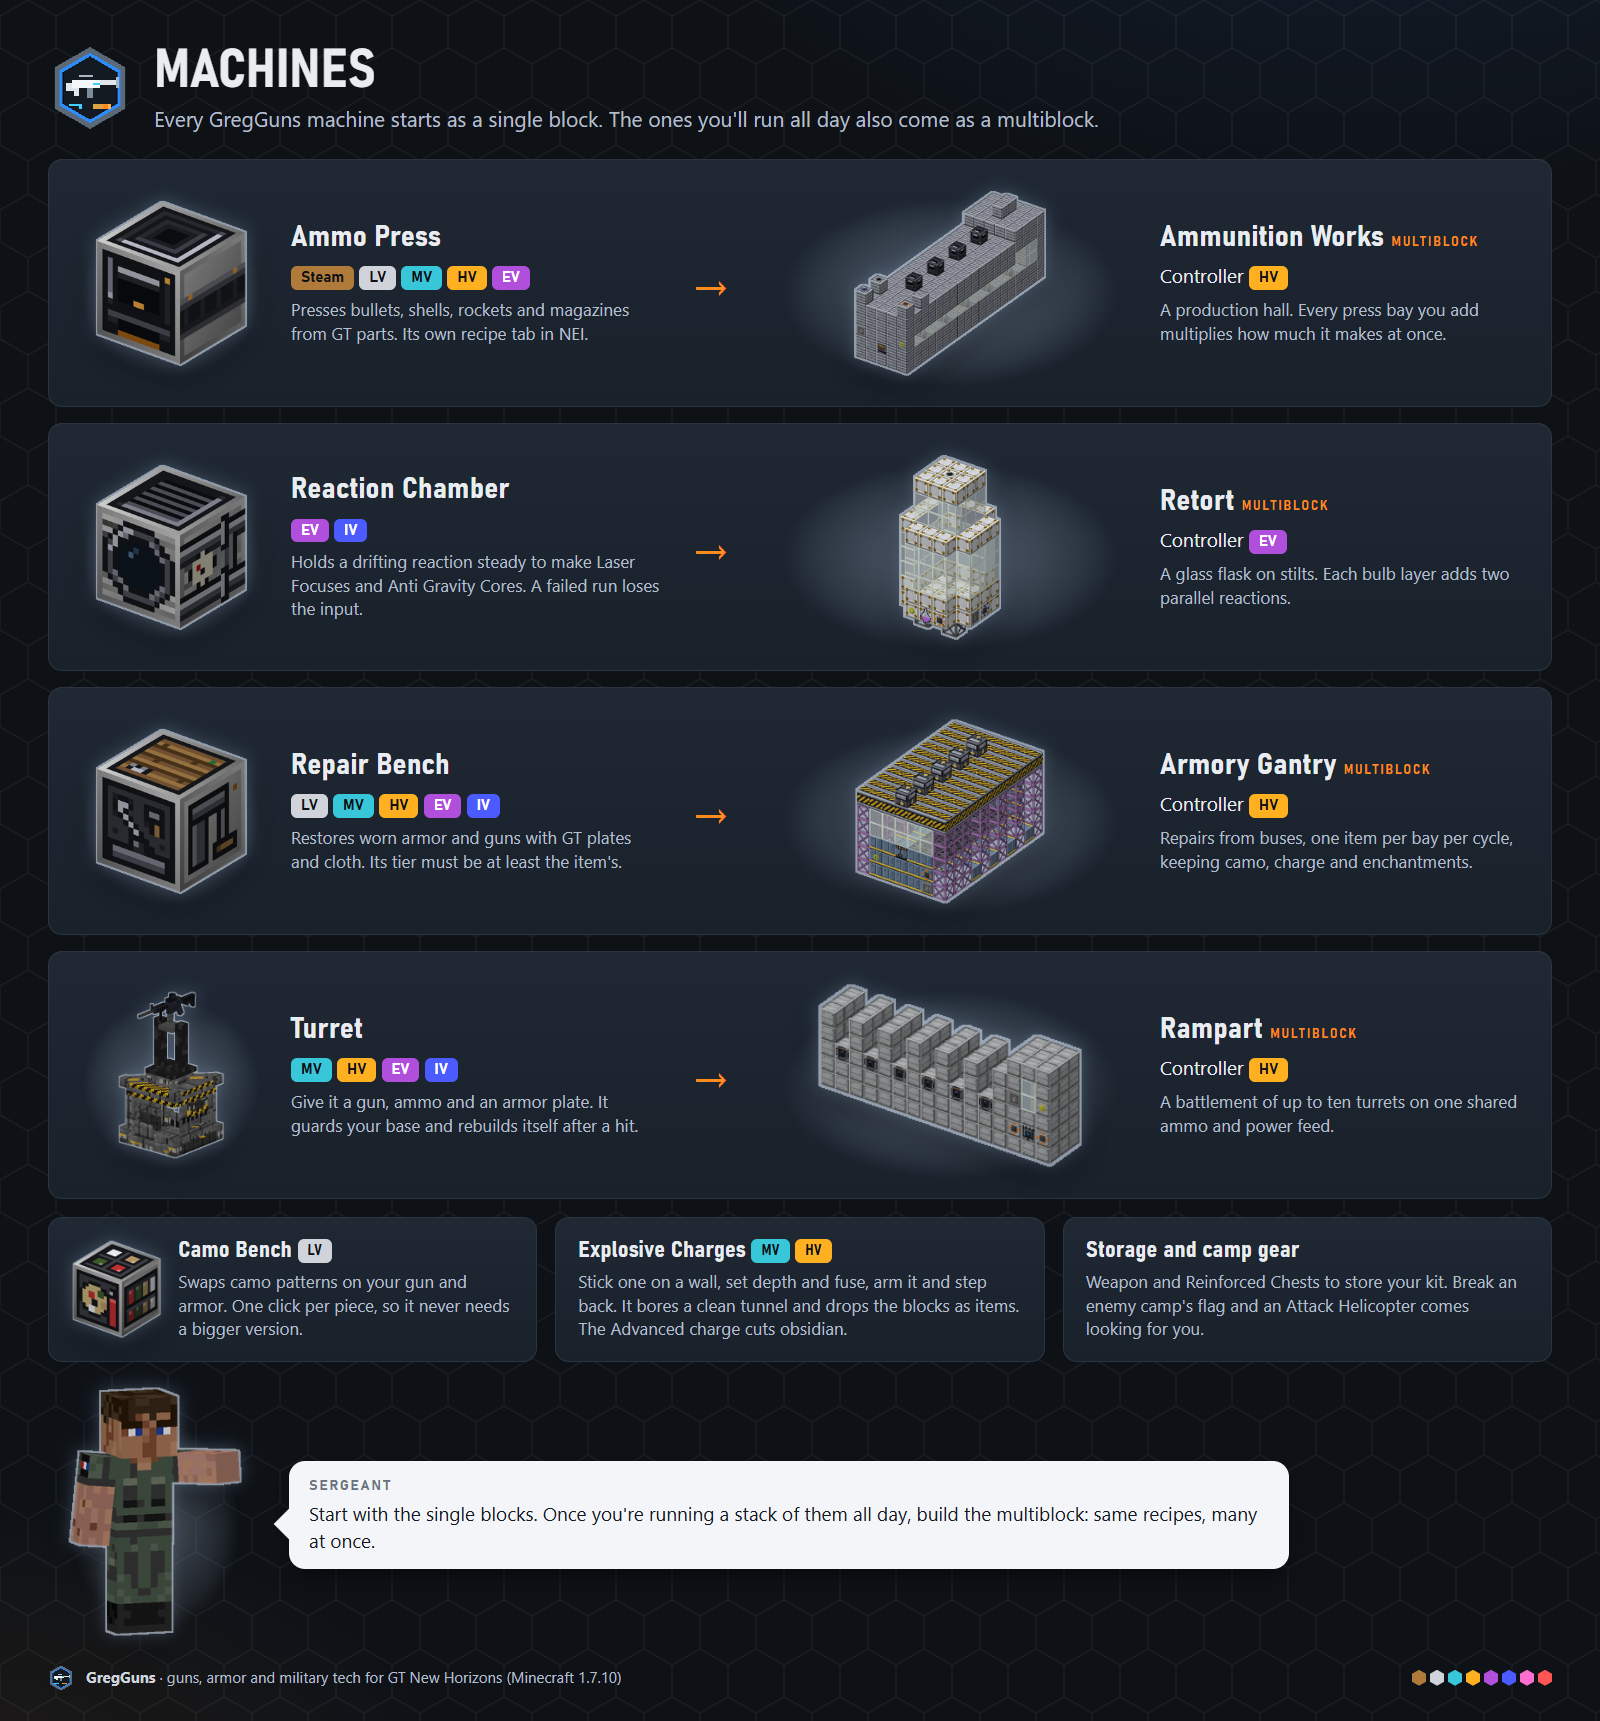
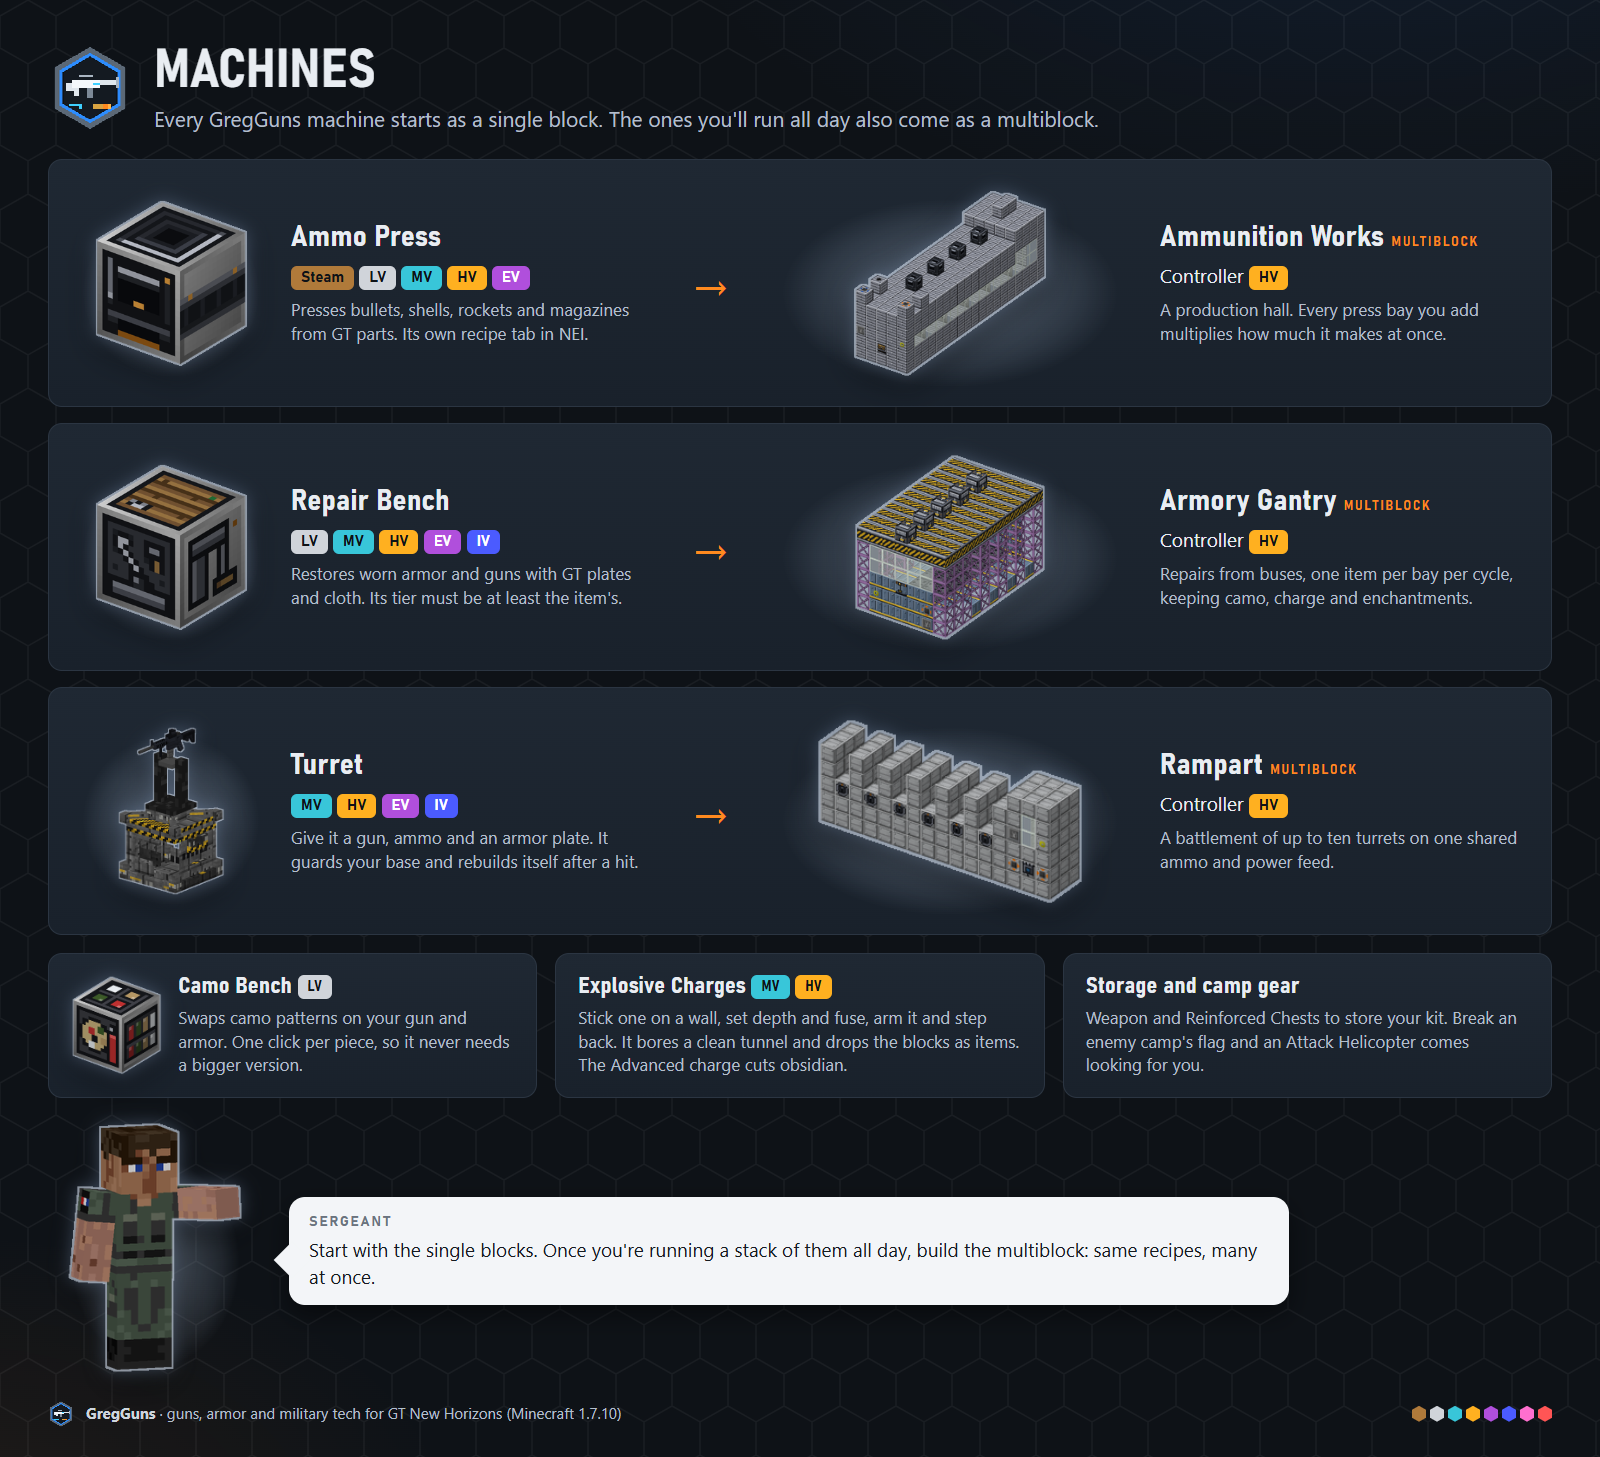
Rebuild the machines and questbook sheets without the Reaction Chamber and Retort

Changed region(s): [[0.0312, 0.0309, 0.9688, 0.9883], [0.7188, 0.1235, 0.9375, 0.2471], [0.875, 0.9574, 0.9688, 0.9883]]

diff --git a/docs/assets/MANIFEST.md b/docs/assets/MANIFEST.md
@@ -938,7 +938,7 @@ The machine-readable twin is [tools/asset-gen/manifest.json](../../tools/asset-g
 | `info.arsenal_ev_to_zpm` | `docs/assets/infographics/arsenal-ev-to-zpm.png` | 1600x2294 | Player guide: every weapon from EV to ZPM, rendered, with role and ammo or charge. Built by tools/asset-gen/infographics/build.py; no vector source. [Delivered: generated by tools/asset-gen/infographics/build.py.] | #808080 #FF8000 #101418 #F2F2F2 | (new) | P2 |
 | `info.ammo_and_magazines` | `docs/assets/infographics/ammo-and-magazines.png` | 1600x2037 | Player guide: GT materials to parts to the Ammo Press to magazines; magazine sizes; ammo per tier. Built by tools/asset-gen/infographics/build.py; no vector source. [Delivered: generated by tools/asset-gen/infographics/build.py.] | #808080 #FF8000 #101418 #F2F2F2 | (new) | P2 |
 | `info.armor_and_gear` | `docs/assets/infographics/armor-and-gear.png` | 1600x2101 | Player guide: the twelve armor sets on figures, masks and back gear, damage types. Built by tools/asset-gen/infographics/build.py; no vector source. [Delivered: generated by tools/asset-gen/infographics/build.py.] | #808080 #FF8000 #101418 #F2F2F2 | (new) | P2 |
-| `info.machines` | `docs/assets/infographics/machines.png` | 1600x1721 | Player guide: each single block machine beside its multiblock, rendered. Built by tools/asset-gen/infographics/build.py; no vector source. [Delivered: generated by tools/asset-gen/infographics/build.py.] | #808080 #FF8000 #101418 #F2F2F2 | (new) | P2 |
+| `info.machines` | `docs/assets/infographics/machines.png` | 1600x1457 | Player guide: each single block machine beside its multiblock, rendered. Built by tools/asset-gen/infographics/build.py; no vector source. [Delivered: generated by tools/asset-gen/infographics/build.py.] | #808080 #FF8000 #101418 #F2F2F2 | (new) | P2 |
 | `info.multiblock_ammunition_works` | `docs/assets/infographics/multiblock-ammunition-works.png` | 1600x2406 | Build guide: Ammunition Works, with block counts, sections, hatches and scaling. Built by tools/asset-gen/infographics/build.py; no vector source. [Delivered: generated by tools/asset-gen/infographics/build.py.] | #808080 #FF8000 #101418 #F2F2F2 | (new) | P3 |
 | `info.multiblock_armory_gantry` | `docs/assets/infographics/multiblock-armory-gantry.png` | 1600x1986 | Build guide: Armory Gantry, with block counts, sections, hatches and scaling. Built by tools/asset-gen/infographics/build.py; no vector source. [Delivered: generated by tools/asset-gen/infographics/build.py.] | #808080 #FF8000 #101418 #F2F2F2 | (new) | P3 |
 | `info.multiblock_rampart` | `docs/assets/infographics/multiblock-rampart.png` | 1600x1841 | Build guide: Rampart, with block counts, sections, hatches and scaling. Built by tools/asset-gen/infographics/build.py; no vector source. [Delivered: generated by tools/asset-gen/infographics/build.py.] | #808080 #FF8000 #101418 #F2F2F2 | (new) | P3 |
